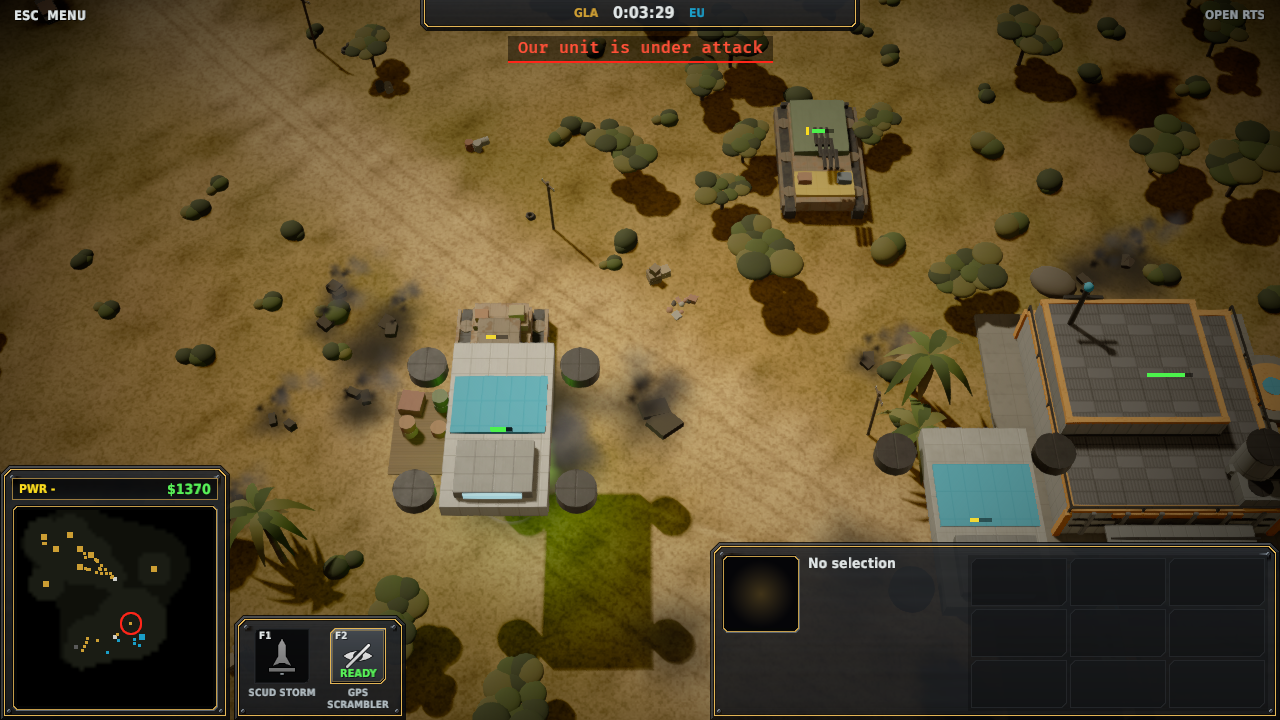
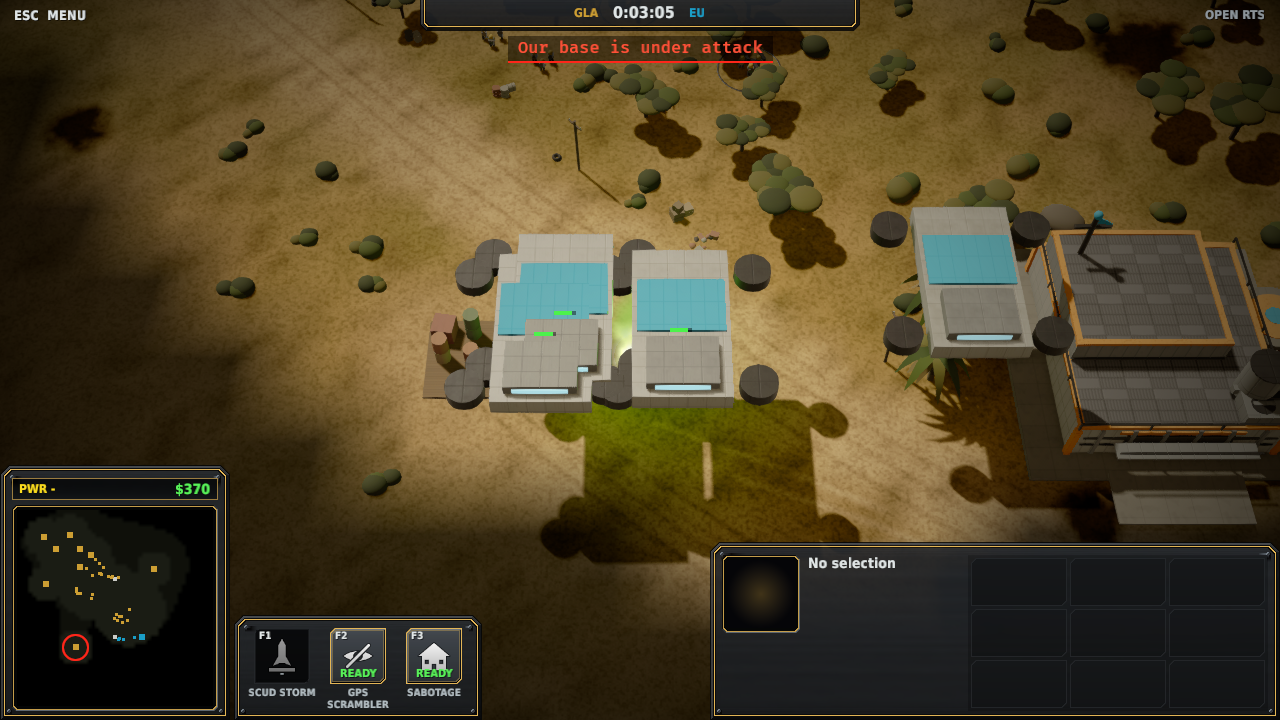
docs: README frames and captions on the final sim
Every README frame is re-rendered on the merged game (framed HUD with the
UAV Spy Drone tile, steering, line of sight, heroes and the second balance
pass change every match). The artillery frames are picked at new ticks, a
deployed Thunderfist at 5:35 and a toxin shell bursting by an EU supply
center at 3:05, and the verification note's HUD totals are re-checked
against the sim: EU $1405 at 100/210, APA $130 at 100/210.

diff --git a/README.md b/README.md
@@ -137,17 +137,17 @@ Not yet:
 
 ![EU base at 3 minutes, in-game camera](docs/img/m1-eu-base-3min.png)
 
-![EU squads in the field at 3:45, under attack, beside a supply pile's dirt pad, scorched patches and roadside palms, in-game camera](docs/img/m3-eu-attacks-gla.png)
+![An EU base under fire at 3:45: a GLA vehicle in the field, smoke and wreckage by the supply center, in-game camera](docs/img/m3-eu-attacks-gla.png)
 
 ![APA vs GLA after 5 minutes, whole-map view](docs/img/m1-apa-vs-gla-5min.png)
 
-*Above, each under player 0's fog of war: an EU base at 3:00 (EU vs GLA AI, `--view base`); EU squads in the field at 3:45, under attack (`--view battle --ticks 6750`); and APA (red) vs GLA (sand) after 5 minutes of AI vs AI (`--view map`), where only the APA's explored ground is lit and the GLA base stays hidden. All rendered headless with `--screenshot` on the integrated Radeon (RADV GFX1150), in the game's own look (no alpha import), with the framed HUD: power and credits over the minimap, the support powers as tiles (F1-F3), the selection card and the build tray.*
+*Above, each under player 0's fog of war: an EU base at 3:00 (EU vs GLA AI, `--view base`); the same base under fire at 3:45, smoke and wreckage by its supply center (`--view battle --ticks 6750`); and APA (red) vs GLA (sand) after 5 minutes of AI vs AI (`--view map`), where only the APA's explored ground is lit and the GLA base stays hidden. All rendered headless with `--screenshot` on the integrated Radeon (RADV GFX1150), in the game's own look (no alpha import), with the framed HUD: power and credits over the minimap, the support powers as tiles (F1-F3), the selection card and the build tray.*
 
-![APA Thunderfist deployed in the field at 5:55](docs/img/m4-apa-thunderfist-deployed.png)
+![APA Thunderfist deployed in the field at 5:35, its infantry around it](docs/img/m4-apa-thunderfist-deployed.png)
 
-![GLA Toxin Artillery shelling an EU supply center at 3:29, the toxin pooled at its foot and smoke from the hits](docs/img/m4-gla-toxin-artillery.png)
+![A GLA Toxin Artillery shell bursting green beside an EU supply center at 3:05](docs/img/m4-gla-toxin-artillery.png)
 
-*Above: artillery. A deployed APA Thunderfist out in the field, ruts and scorches around it (EU vs APA, `--spectate --view at:146,225 --ticks 10651`), and a GLA Toxin Artillery shelling an EU supply center: the toxin pools green at its foot and the hits smoke (GLA vs EU, `--spectate --view battle --ticks 6277`).*
+*Above: artillery. A deployed APA Thunderfist with its infantry around it (EU vs APA, `--spectate --view at:165,171 --ticks 10051`), and a GLA Toxin Artillery shell bursting green beside an EU supply center (GLA vs EU, `--spectate --view at:214,260 --ticks 5571`).*
 
 ![Zero Hour's Tournament Desert, EU base at 3 minutes](docs/img/m2-zh-tournament-desert-base.png)
 
@@ -157,7 +157,7 @@ Not yet:
 
 **Verification status.**
 
-- The README frames were rendered on this host, and the mirror check passed for each (70/70, 71/71 and 70/70 entities for the first three, none misplaced; hidden enemies keep their model, hidden). The HUD totals match the sim for the same matches (Normal AIs, seed 1): EU at 5,400 ticks shows `$2215`, power 100/210; APA at 9,000 ticks shows `$485`, power 100/210. The same APA frame with `--reveal` shows the GLA base and its minimap dots; with fog it doesn't.
+- The README frames were rendered on this host, and the mirror check passed for each (69/69, 71/71 and 69/69 entities for the first three, none misplaced; hidden enemies keep their model, hidden). The HUD totals match the sim for the same matches (Normal AIs, seed 1): EU at 5,400 ticks shows `$1405`, power 100/210; APA at 9,000 ticks shows `$130`, power 100/210. The same APA frame with `--reveal` shows the GLA base and its minimap dots; with fog it doesn't.
 - Fog tests: an attack on an enemy never seen is rejected; once scouted, the building can be attacked from out of sight and the order holds through the fog until the tank fires (the test fails if memory isn't accepted, or if the order is dropped in the fog); scenery on unexplored ground stays hidden until a unit explores it; an enemy foundation raised on explored ground out of sight doesn't clear the scenery on it; an enemy command center destroyed out of sight keeps its model and the scenery clearing under it until our dozer sees the spot again (fails if ghosts are dropped). The headless mirror check allows a model with no sim entity only if the fog still remembers it.
 - Artillery tests (`crates/g2-rules/tests/artillery.rs`): a shell lands on the spot after distance over speed and misses a target that drove off (fails with instant shells); every enemy in the blast is hit and our own worker standing in it is not (fails if splash hits friends); no shot inside the minimum range; the Thunderfist deploys and packs up in its set-up time, can't move while deployed, and rejects `Deploy` for units that can't; it deploys on its own for a target beyond its cannon on an attack order and on an attack-move; AI matches with artillery replay to the same hash. The reference replay was re-recorded on purpose for artillery.
 - A test drives the real Bevy schedule without a renderer: orders between frames, a ×4 burst, then a saved replay. That replay verifies to the same final hash, which covers the client's command path end to end.
